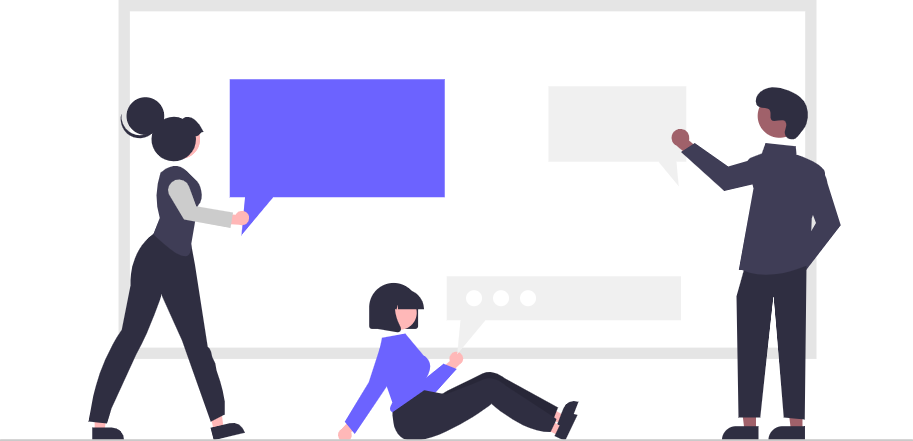
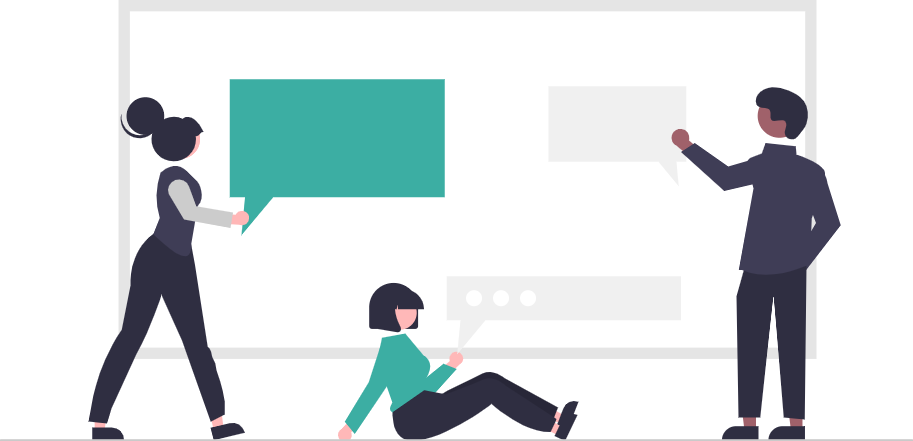
001

Changed region(s): [[0.2453, 0.1769, 0.4907, 0.5306], [0.368, 0.737, 0.5214, 0.9728]]

diff --git a/index.html b/index.html
@@ -11,9 +11,9 @@
     <link rel="stylesheet" href="responsive.css">
 </head>
 <body>
-    <nav class="navbar navbar-expand-lg navbar-light bg-light">
+    <nav class="navbar navbar-expand-lg navbar-light navbar-custom">
         <div class="container-fluid">
-          <a class="navbar-brand" href="#">DCSA</a>
+          <a class="navbar-brand" href="#"><img src="logo.png" alt="" class="logo"> DCSA</a>
           <button class="navbar-toggler" type="button" data-bs-toggle="collapse" data-bs-target="#navbarNav" aria-controls="navbarNav" aria-expanded="false" aria-label="Toggle navigation">
             <span class="navbar-toggler-icon"></span>
           </button>
@@ -38,13 +38,13 @@
           <div class="textbox">
               <div class="txt">
               <h1 class="texth1">
-                  Grow your skil to advance <br> your career path
+                  <span class="mld">Malda College</span> <br> Inter Departmental <br>Cooding Contest
               </h1>
               <p class="textp">
-                  Lorem, ipsum dolor sit amet consectetur adipisicing <br> elit. Consequatur autem praesentium corporis dolores <br>  ex quia culpa!
+                 This competetion will be held on 12/04/2022 <br> at Central Lab from 10:00am to 03:00pm and <br> cooding should be done on Linux oparating system.
               </p>
               <div class="but">
-              <a href="https://docs.google.com/forms/d/e/1FAIpQLSclbfWx75ipdknSB7OHFNAKdOYE4SF3xD5cB8mjDsFoFyVG5A/viewform"><button type="button" class="btn btn-primary">Apply Now</button></a>
+              <a href="https://docs.google.com/forms/d/e/1FAIpQLSclbfWx75ipdknSB7OHFNAKdOYE4SF3xD5cB8mjDsFoFyVG5A/viewform"><button type="button" class="btn btn-success">Apply Now</button></a>
              <a href="sample.pdf" target="blank"><button type="button" class="btn btn-primary">Know more</button></a> 
             </div>
             </div>

diff --git a/style.css b/style.css
@@ -1,33 +1,44 @@
 *{
     margin: 0;
     padding: 0;
-    /* background-color: #F8F9FA; */
+    
 
+}
+.logo{
+    width: 60px;
+    
 }
 .navbar-brand{
     margin-left: 200px;
     font-size: 30px;
+    
+    
 }
 .navmar{
     margin-left: 700px;
 }
 .nav-link{
     margin-left: 30px;
+    color: #fff;
+}
+.navbar-custom{
+    background-color: #3caea3; /* NAVBAR COLOR change*/
+    
 }
 
 .home{
     height: 90vh;
     width: 100%;
-    /* border: 1px solid red; */
+    
     display: flex;
     align-items: center;
     justify-content: space-between;
-    /* background-color: #F8F9FA; */
+    
 }
 .textbox{
     height: 100%;
     width: 50%;
-    /* border: 1px solid blue; */
+    
     display: flex;
     align-items: center;
     justify-content: center;
@@ -38,10 +49,19 @@
 .texth1{
     font-size: 38px;
     margin-bottom: 20px;
+    font-family: 'poppins'; /* font chage korle google font er link ta agee link tag e add koba tarpor etar font name ta chage kore diba*/
+}
+.mld{
+    font-size: 40px;
+}
+.cod{
+    font-size: 29px;
 }
 .textp{
     font-size: 16px;
-    margin-bottom: 65px;
+    margin-bottom: 45px;
+    font-family: sans-serif ;/* font chage korle google font er link ta agee link tag e add koba tarpor etar font name ta chage kore diba*/
+
 }
 
 .imgbox{
@@ -58,8 +78,8 @@
 }
 .btn{
     margin-right: 25px;
-    background-color: #6C63FF;
-    border: 1px solid #6C63FF;
+   
+   
 }
 .video{
     width: 100%;
@@ -67,7 +87,7 @@
     display: flex;
     align-items: center;
     justify-content: center;
-    /* background-color: #F8F9FA; */
+   
 }
 iframe{
     width: 1000px;

diff --git a/responsive.css b/responsive.css
@@ -29,7 +29,7 @@
     }
     .texth1{
         width: 100%;
-        font-size: 28px;
+        font-size: 33px;
 
         text-align: center;
     }
